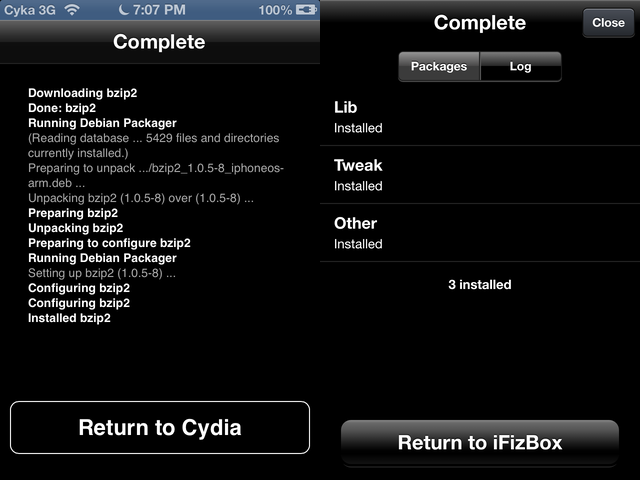
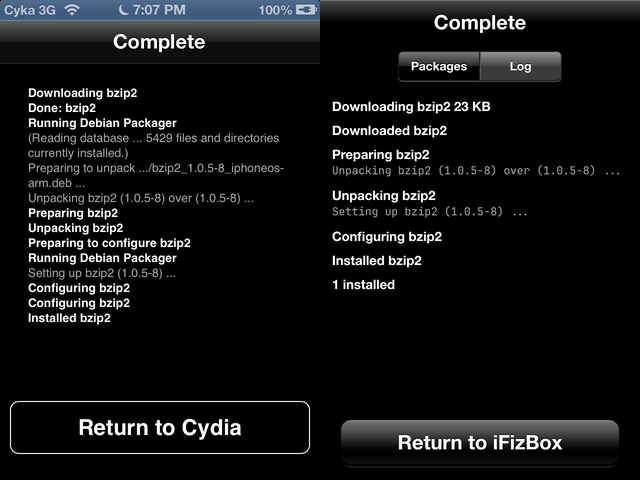
B224 review: no bar buttons at a clean end, as the 4S's Complete

Changed region(s): [[0.5, 0.0938, 0.9375, 0.625], [0.9062, 0.0, 1.0, 0.0938], [0.7188, 0.5625, 0.8125, 0.625]]

diff --git a/web/app/screens/queuerun.js b/web/app/screens/queuerun.js
@@ -15,7 +15,8 @@
 //     "Stopping after X…", Cancel greyed; then Confirm again with what finished cleared from the queue and the
 //     footer "Stopped. N installed and cleared from the queue."), Close after a run with failures. Top right: Hide
 //     while it runs (the page slides away; a strip under every tab's nav bar reopens it, and the Installed badge
-//     counts what's left), Retry All once it ended with failures (failed, skipped and cancelled rows), Close when clean.
+//     counts what's left), Retry All once it ended with failures (failed, skipped and cancelled rows). A clean end has no bar
+//     buttons, as the 4S's "Complete": the finish button closes it.
 //   The bottom: the status and bar while it runs, then the finish button (core/progress.js chooseFinish over what
 //     was installed: Restart SpringBoard for a tweak, Reload Data for an app, Return to iFizBox).
 //
@@ -199,20 +200,18 @@ export async function runQueue({ jobs, plan }, deps) {
   };
 
   // ---- the bar ----
-  // B224: as Cydia's Running page on the 4S: plain black-bar buttons, Cancel at the top left; Close (not a blue Done)
-  // once it ends clean
+  // B224: as Cydia's Running page on the 4S: plain black-bar buttons, Cancel at the top left; no buttons once it ends
+  // clean (the 4S's Complete has none: the finish button closes it)
   const hide = barButton("Hide");
   const cancel = barButton("Cancel");
   const closeB = barButton("Close");
   const retryAll = barButton("Retry All");
-  const done = barButton("Close");
   hide.addEventListener("click", () => { page.hide(); strip.show(); tick(); });
   cancel.addEventListener("click", () => {
     if (cancel.disabled) return;
     if (run.cancel()) { cancel.disabled = true; for (const r of rows) draw(r); tick(); }
   });
   closeB.addEventListener("click", () => page.close());
-  done.addEventListener("click", () => page.close());
   retryAll.addEventListener("click", () => { const p = run.retryAll(); if (p) drive(p); });
   const retry = (id) => { const wasRunning = run.running; const p = run.retry(id); if (p && !wasRunning) drive(p); };
 
@@ -280,7 +279,7 @@ export async function runQueue({ jobs, plan }, deps) {
       deps.reopenConfirm?.(`Stopped. ${installed.length} installed and cleared from the queue.`);
       return result;
     }
-    page.bar(bad.length ? { left: closeB, right: retryAll } : { right: done });
+    page.bar(bad.length ? { left: closeB, right: retryAll } : {});
     page.finish({ label: choice.label, status: text, action: () => finishAction(choice) });
     if (page.hidden) strip.update();
     return result;

diff --git a/web/app/screens/apprun.js b/web/app/screens/apprun.js
@@ -21,7 +21,7 @@
 //   The nav bar, as F234's (B224: Cydia's on the 4S, "Running" then "Complete", plain buttons; Apps | Log on a band
 //     under it): Cancel at the top left while it runs (every app not finished is abandoned; then the app Confirm
 //     again with what finished cleared and the footer "Stopped. N installed and cleared from the queue."), Retry All
-//     at the top right after failures (Close at the top left), Close at the top right when clean. A pass that starts after the run ended (Retry All, a
+//     at the top right after failures (Close at the top left), no bar buttons when clean. A pass that starts after the run ended (Retry All, a
 //     row's retry, Try Again) empties the Log first: the last pass's lines belong to it only (B153).
 //   The bottom: the status and the bar while it runs, then Return to iFizBox. When iFizBox's own IPA went to iOS
 //     (B123, followSelf): locked on "Waiting for iOS" while the shell waits for iOS to download it, "Closing iFizBox"
@@ -340,14 +340,12 @@ export async function runAppRun(jobs, deps) {
   const cancel = barButton("Cancel"); // B224: Cydia's plain Cancel at the top left, not red
   const closeB = barButton("Close");
   const retryAll = barButton("Retry All");
-  const done = barButton("Close");
   let cancelled = false;
   cancel.addEventListener("click", () => {
     if (cancel.disabled) return;
     if (run.cancel()) { cancelled = true; cancel.disabled = true; for (const r of rows) draw(r); tick(); }
   });
   closeB.addEventListener("click", () => page.close());
-  done.addEventListener("click", () => page.close());
   retryAll.addEventListener("click", () => { const p = run.retryAll(); if (p) drive(p); });
   const retry = (id) => { const p = run.retry(id); if (p) drive(p); };
   const ownId = (id) => { const p = run.ownIdRetry(id); if (p) drive(p); };
@@ -386,7 +384,7 @@ export async function runAppRun(jobs, deps) {
       if (queue.size) reopenConfirm(`Stopped. ${installed.length} installed and cleared from the queue.`);
       return result;
     }
-    page.bar(bad.length ? { left: closeB, right: retryAll } : { right: done });
+    page.bar(bad.length ? { left: closeB, right: retryAll } : {}); // B224: a clean end has none, as the 4S's Complete
     // B49: iFizBox's own IPA is with iOS, which closes iFizBox to install it: nothing to tap
     const fin = sentSelf ? null : deps.finish?.(result); // B71a: the jailbreak run's (AppSync Unified's respring)
     const opener = sentSelf || fin ? null : openRow(rows, lanes); // B111: one app installed on This iPhone

diff --git a/web/app/screens/apprun.test.js b/web/app/screens/apprun.test.js
@@ -125,7 +125,7 @@ test("Cancel abandons the rest and reopens Confirm with what finished cleared", 
   assert.deepEqual(s.reopened, ["Stopped. 1 installed and cleared from the queue."]);
 }));
 
-test("a failed app ends its row only; Retry All signs it again; a clean run ends on Close; re-sign rows show the expiry", () => withDom(async () => {
+test("a failed app ends its row only; Retry All signs it again; a clean run ends with no bar buttons; re-sign rows show the expiry", () => withDom(async () => {
   const s = setup([app("a", "Alpha", "resign"), app("b", "Beta")], { bad: ["b"] });
   const done = runAppRun(s.queue.list(), { queue: s.queue, lanes: s.l, open: () => s.page });
   await settle();
@@ -142,8 +142,9 @@ test("a failed app ends its row only; Retry All signs it again; a clean run ends
   await s.l.release("b");
   await settle();
   assert.deepEqual(s.l.calls.sign, ["b"]);
-  assert.equal(s.page.bars.at(-1).right.textContent, "Close"); // B224: plain Close, not a blue Done
-  assert.ok(!s.page.bars.at(-1).right.className.includes("done"));
+  // B224: no bar buttons at a clean end, as the 4S's Complete
+  assert.equal(s.page.bars.at(-1).right ?? null, null);
+  assert.equal(s.page.bars.at(-1).left ?? null, null);
   assert.equal(s.queue.size, 0);
 }));
 

diff --git a/web/app/screens/apprun-b170.test.js b/web/app/screens/apprun-b170.test.js
@@ -86,13 +86,13 @@ test("B170: a row's stop at iOS's prompt is never recorded, even when the shell 
   s.page.close();
 }));
 
-test("B170: the red Cancel records nothing it cancelled", () => withDom(async () => {
+test("B170: the run's Cancel records nothing it cancelled", () => withDom(async () => {
   const s = setup([app("a", "Alpha"), app("b", "Beta")], { deaf: true });
   const doc = fakeDoc();
   const done = runAppRun(s.queue.list(), { queue: s.queue, lanes: s.l, record: async (j) => s.recorded.push(j.id), open: () => s.page,
     doc, isInstalled: async () => ({ a: true, b: true }), reopenConfirm: () => {}, store: async () => memoryAppStore() });
   await settle();
-  s.page.bars.at(-1).right.click(); // Cancel while Alpha is with iOS
+  s.page.bars.at(-1).left.click(); // Cancel (B224: top left) while Alpha is with iOS
   const r = await done;
   assert.deepEqual(r.rows.map((x) => x.state), ["cancelled", "cancelled"]);
   await s.l.release("a");

diff --git a/web/app/screens/queuerun.test.js b/web/app/screens/queuerun.test.js
@@ -108,8 +108,7 @@ test("a bad hash fails one package, skips what needs it, installs the rest; Retr
   s.page.bars.at(-1).right.click();
   for (let i = 0; i < 20 && !(s.page.finished && s.calls.logs.length === 2); i++) await settle();
   assert.deepEqual(s.calls.install.map(([id]) => id), ["other", "lib", "tweak"]);
-  assert.equal(s.page.bars.at(-1).right.textContent, "Close"); // B224: plain Close, not a blue Done
-  assert.ok(!s.page.bars.at(-1).right.className.includes("done"));
+  assert.equal(s.page.bars.at(-1).right ?? null, null); // B224: no bar buttons at a clean end, as the 4S's Complete
   assert.equal(s.page.bars.at(-1).left ?? null, null);
   assert.deepEqual(s.calls.auto.at(-1), ["lib"]);
   await settle();

diff --git a/journal/2026-11-20-b224-run-nav-bar/README.md b/journal/2026-11-20-b224-run-nav-bar/README.md
@@ -22,11 +22,11 @@ No segmented control and nothing red anywhere in Cydia's nav bar.
   under the nav bar (`.progress-seg-band`, layout in progress.css), so the nav bar keeps "Running" / "Complete".
   Both runs (queue run, IPA app run) use it, so both get the fix from one place.
 - `screens/queuerun.js`: Cancel is the plain black-bar button, at the top left (Cydia's place); Hide moved to the
-  top right. A clean end shows a plain Close (top right) instead of the blue Done.
-- `screens/apprun.js`: Cancel plain, at the top left; a clean end shows a plain Close instead of the blue Done.
-- Tests: queuerun.test.js (running bar: plain Cancel left, Hide right; Close at a clean end), apprun.test.js (same),
-  queue-confirm.test.js (only Confirm's Cancel is red now; the old rule said the runs' Cancel was red too, from
-  F234: the user's B224 report overrides it).
+  top right. A clean end has no bar buttons (was a blue Done), as the 4S's Complete: the finish button closes it.
+- `screens/apprun.js`: Cancel plain, at the top left; a clean end has no bar buttons (was a blue Done).
+- Tests: queuerun.test.js (running bar: plain Cancel left, Hide right; nothing at a clean end), apprun.test.js and
+  apprun-b170.test.js (same; Cancel now found at the left), queue-confirm.test.js (only Confirm's Cancel is red now;
+  the old rule said the runs' Cancel was red too, from F234: the user's B224 report overrides it).
 
 Decisions (no one to ask):
 
@@ -34,15 +34,14 @@ Decisions (no one to ask):
   the band under it rather than being dropped. Cydia has no such control; this is the smallest place it fits
   without touching the nav bar the user asked to match.
 - Kept Hide, Retry All and Close-after-failures: features Cydia doesn't have, but the brief only objects to the
-  segmented control and the red Cancel. Close at a clean end replaces Done: Cydia's docs say "Close" at the right
-  once it has finished (the 4S's 1.1.30 shows none, but our finish button may be Restart SpringBoard, so a way out
-  without it stays).
+  segmented control and the red Cancel. A first pass put a plain Close at a clean end (docs/cydia.md says Close);
+  the spec review pointed out the 4S's Complete has none, so it's gone: the device wins over the doc.
 - The task's file list named ios6.css; nothing there needed changing: the bar buttons already draw the 4S's black
   style on the `.console` nav bar. The band's layout went in progress.css (C45: layout outside ios6.css).
 
 ## Screenshots
 
-- `complete-4s-vs-ours.png`: the 4S's Complete (left) beside ours (right).
+- `complete-4s-vs-ours.png`: the 4S's Complete (left) beside ours (right), both a one-package bzip2 run on the Log.
 - `running-ours-packages-log.png`: ours while running, Packages and Log.
 - `running-nav-3x.png`: the running nav bar and band, 3x render (checked zoomed in: button edges, title, the
   segmented control's dividers are clean).
